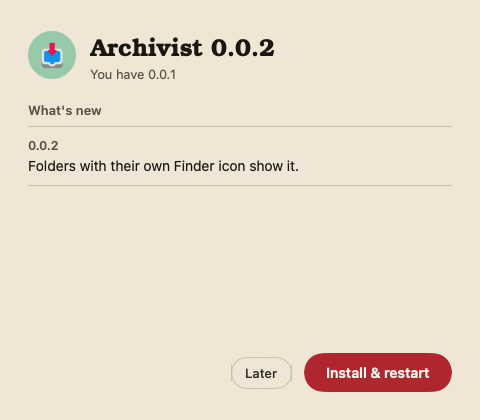
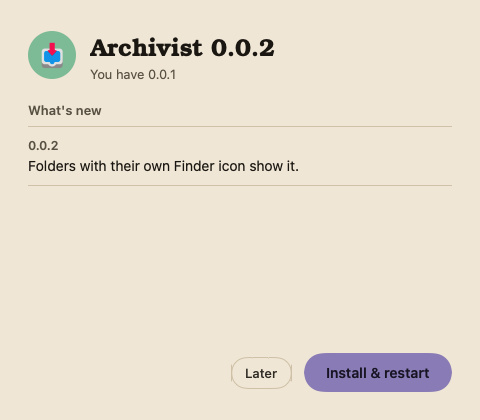
Archivist 0.0.14 — New app colour (lavender). Sources show green when up to date, red when there is something to back up.

Changed region(s): [[0.625, 0.8357, 0.9688, 0.9595], [0.0625, 0.0619, 0.1562, 0.1857]]

diff --git a/Archivist/Theme.swift b/Archivist/Theme.swift
@@ -1,7 +1,7 @@
 import AppKit
 import SwiftUI
 
-/// Warm paper, one red accent, one serif for titles.
+/// Warm paper, one lavender accent, one serif for titles.
 enum Palette {
     /// Picks the dark or light value from the window's own appearance.
     private static func pair(_ dark: UInt32, _ light: UInt32) -> Color {
@@ -17,8 +17,10 @@ enum Palette {
     static let ink = pair(0xece3d1, 0x221d16)        // reading text
     static let soft = pair(0x9d9484, 0x6b6253)       // second voice: kinds, notes
     static let rule = pair(0x3a3328, 0xd8ccb6)       // the only lines
-    static let accent = pair(0xd04144, 0xc03a3d)     // the app's red (the icon's ground): Start, selection, focus
-    static let onAccent = pair(0xfff6ef, 0xfff6ef)   // text on the red
+    static let accent = pair(0x9b90c2, 0x9b90c2)     // the app's lavender (Helios, 2026-11-25): Start, selection, focus
+    static let onAccent = pair(0x1f1b2e, 0x1f1b2e)   // dark text on the lavender (white read at 2.9:1, dark at 7:1)
+    static let good = pair(0x8cc084, 0x3f7f3a)       // "up to date"
+    static let due = pair(0xe06a6c, 0xb8393c)        // "to back up", "not backed up yet"
     static let warn = pair(0xd6a467, 0x93601d)       // a problem worth reading
 }
 

diff --git a/Archivist/JobView.swift b/Archivist/JobView.swift
@@ -348,7 +348,7 @@ struct SourceRow: View {
 
     private var statusColor: Color {
         guard let v = survey, v.compared, !source.skip else { return Palette.soft }
-        return !v.destinationExists || v.toCopy > 0 ? Palette.ink : Palette.soft   // not the red: it would read as an error
+        return !v.destinationExists || v.toCopy > 0 ? Palette.due : Palette.good   // red: still to copy; green: up to date
     }
 
 }
